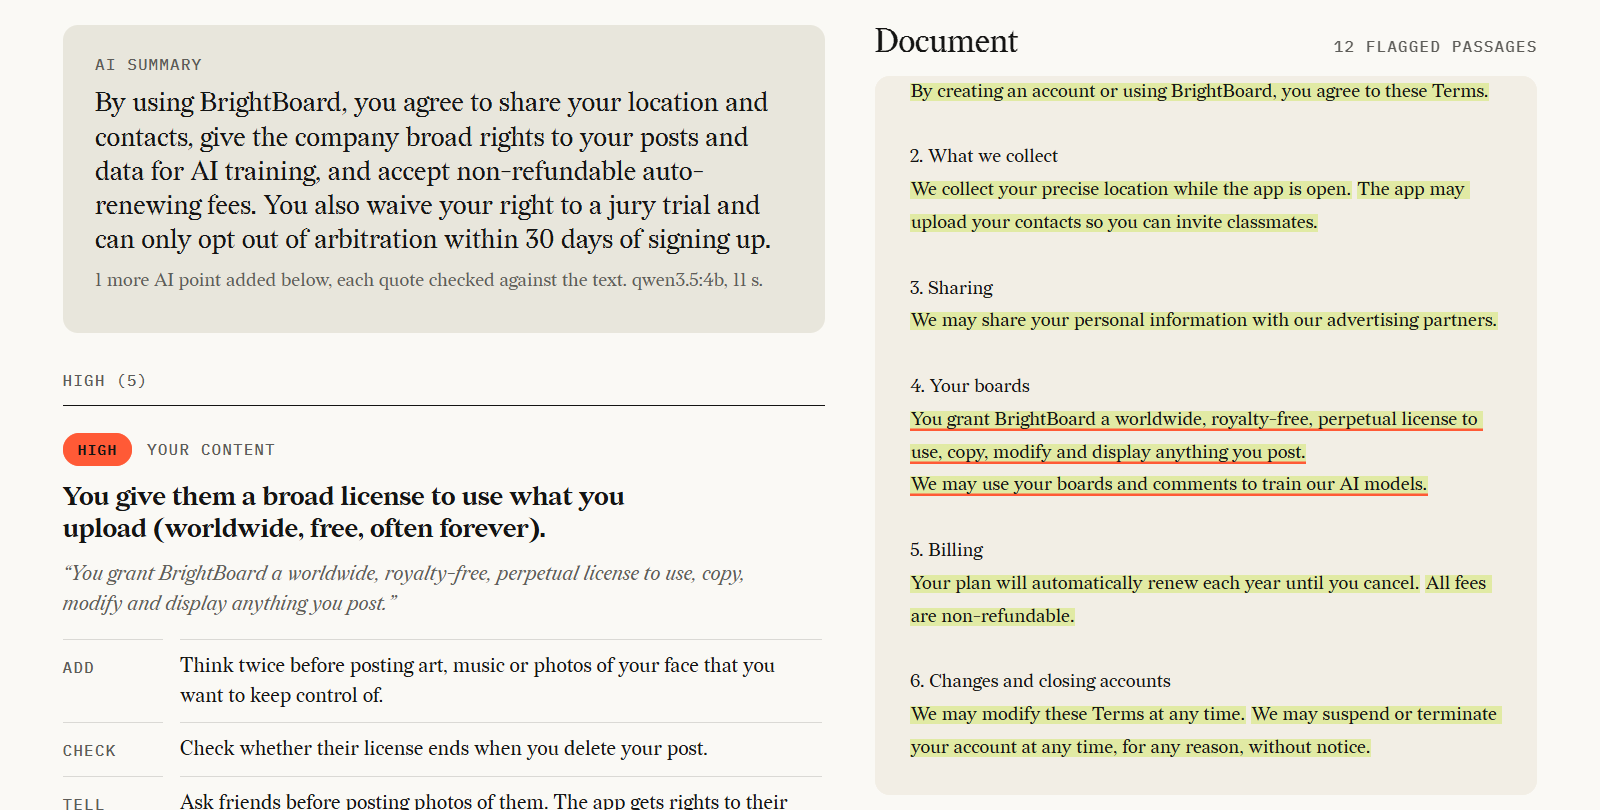
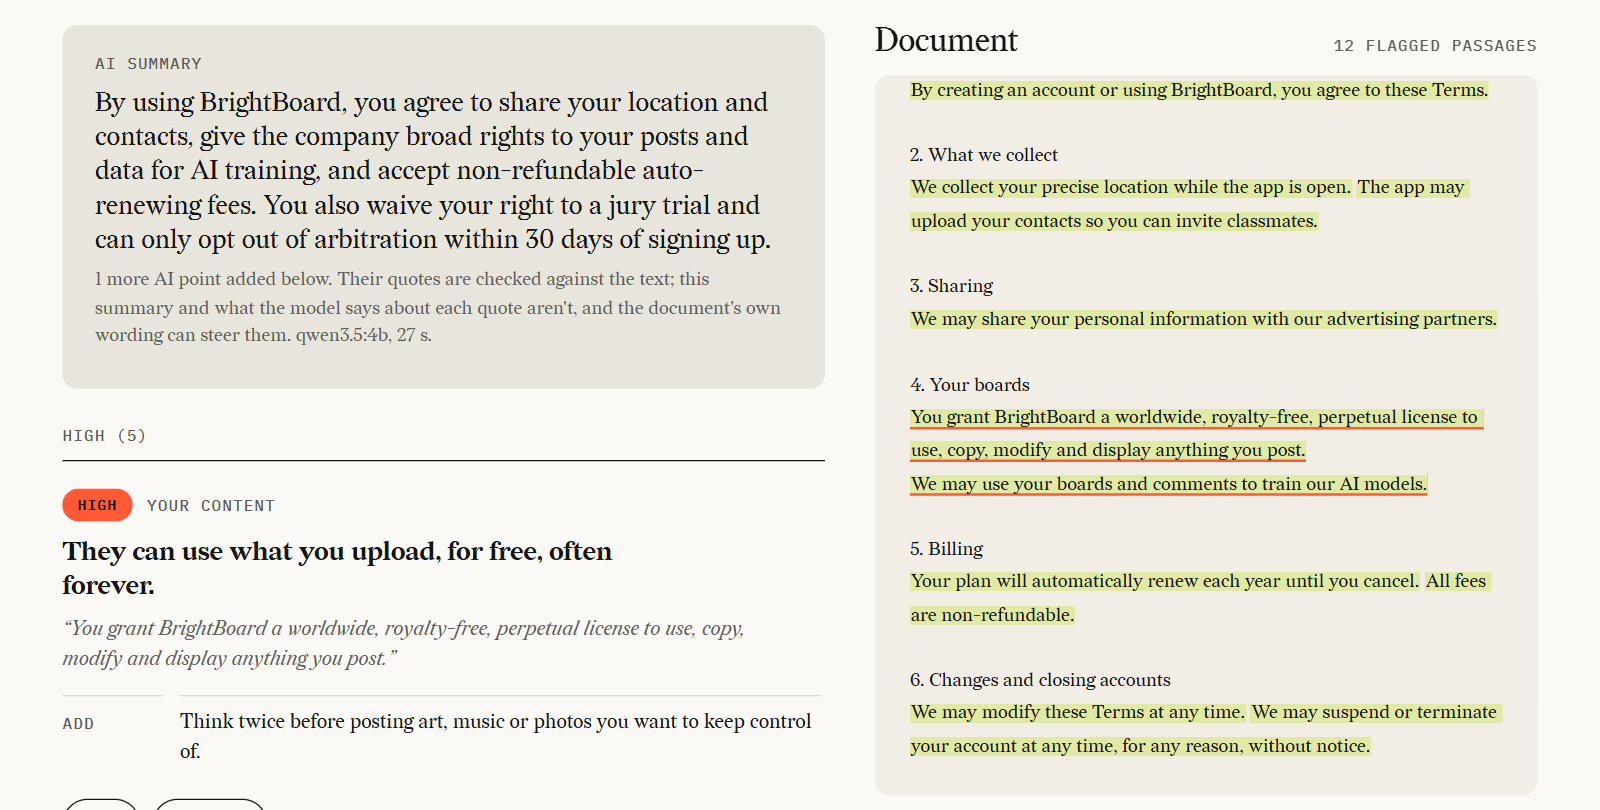
Shorter summaries and quotes, OK / Not OK buttons that match
Approve sat next to Not OK; the pair is now OK / Not OK, and an OK card dims in
the web app as it already did in the popup. Summaries are cut to one short line
and long quotes are clipped (full sentence on hover).

diff --git a/src/rules.ts b/src/rules.ts
@@ -45,7 +45,7 @@ export const RULES: Rule[] = [
     id: "collects_contacts",
     category: "data-collection",
     severity: "medium",
-    say: "They collect your contacts (your address book).",
+    say: "They collect your contacts.",
     match: [/\b(collect|access|upload|import|sync)\w*\b[^.]{0,60}\b(contacts|address book|contact list|phone ?book)\b/i,
       /\b(contacts|address book|contact list)\b[^.]{0,20}\b(uploaded|synced|imported|collected|accessed)\b/i],
     unless: [denies("collect|access|upload|import|sync"), FOR_YOU, DONT_LIST_ITEM],
@@ -54,7 +54,7 @@ export const RULES: Rule[] = [
     id: "collects_biometrics",
     category: "data-collection",
     severity: "high",
-    say: "They collect biometric data, such as your face or voice.",
+    say: "They collect biometric data, like your face or voice.",
     // A biometric word and something done with it. A bare mention ("never upload biometric data") isn't enough.
     match: [all(BIOMETRIC, String.raw`\b(?:(?:collect|process|captur|receiv|obtain|access|extract|analy[sz]|generat|deriv|retain|disclos)\w*|use[sd]?|using|stor(?:e|es|ed|ing)|keeps?|kept|shar(?:e|es|ed|ing)|sells?|sold)\b`)],
     unless: [denies("collect|use|store|process|capture|receive|extract|mine"), FOR_YOU, DONT_LIST_ITEM,
@@ -65,7 +65,7 @@ export const RULES: Rule[] = [
     id: "tracks_across_sites",
     category: "data-collection",
     severity: "medium",
-    say: "They track what you do on other websites or apps, usually for ads.",
+    say: "They track you on other sites and apps.",
     match: [
       // Not "across your devices": that's their own app on your phone and laptop, not other sites.
       /\b(track|collect|monitor|follow)\w*\b[^.]{0,80}\b(across|on other)\b[^.]{0,40}\b(websites|sites|apps|applications|services)\b/i,
@@ -107,7 +107,7 @@ export const RULES: Rule[] = [
     id: "shares_data",
     category: "data-sharing",
     severity: "medium",
-    say: "They share your data with other companies (partners, advertisers or 'third parties').",
+    say: "They share your data with other companies.",
     // Needs all three in one clause: a sharing verb, an outside company, and data.
     match: [
       /^(?=.*\b(share[sd]?|sharing|disclose[sd]?|disclosing|transfer(s|red)?)\b)(?=.*\b(third[- ]part(y|ies)|advertisers|partners|affiliates|data brokers|new owners?|successors?)\b)(?=.*\b(data|information)\b)/is,
@@ -124,7 +124,7 @@ export const RULES: Rule[] = [
     id: "broad_content_license",
     category: "your-content",
     severity: "high",
-    say: "You give them a broad license to use what you upload (worldwide, free, often forever).",
+    say: "They can use what you upload, for free, often forever.",
     // "you (hereby) grant ..." + a broad-license word + "license". Ignores the license *they* give *you*.
     match: [
       /^(?=.*\byou(\s+(?!we\b)\w+){0,3}\s+(grant\w*|give)\b)(?=.*\b(perpetual|irrevocable|worldwide|world-wide|royalty[- ]free|sublicensable)\b)(?=.*\b(licen[cs]e|right)s?\b)/is,
@@ -188,7 +188,7 @@ export const RULES: Rule[] = [
     category: "your-rights",
     severity: "high",
     unfairTos: "Arbitration",
-    say: "Disputes go to private arbitration instead of a normal court.",
+    say: "Disputes go to private arbitration, not court.",
     // Flags the sentence that sends disputes to arbitration, not every sentence of the arbitration section
     // (who picks the arbitrator, the fees, the location...). One clear flag is more useful than thirty.
     match: [
@@ -218,7 +218,7 @@ export const RULES: Rule[] = [
     id: "class_action_waiver",
     category: "your-rights",
     severity: "high",
-    say: "You give up the right to a jury trial or to join a class action (group lawsuit).",
+    say: "You give up jury trials and group lawsuits.",
     match: [
       /(?<!-)\b(class|collective|representative)[- ](action|arbitration|proceeding|lawsuit|claim)s?\b/i,
       /\bclass[- ]wide\b/i,
@@ -230,7 +230,7 @@ export const RULES: Rule[] = [
     category: "your-rights",
     severity: "medium",
     unfairTos: "Unilateral change",
-    say: "They can change these terms (or prices) whenever they want.",
+    say: "They can change the terms or prices anytime.",
     match: [
       all(THEY_MAY, near("chang|modif|amend|updat|revis|increas|rais|add(?:s|ed)?\\b|alter|improve|enhance",
         "terms|agreement|agreements|polic(?:y|ies)|prices?|pricing|fees?|charges|rates|services?|platform|features?|functionality|warnings|products?|rules|eula|subscriptions?|virtual (?:goods|items|money|currency)|payment methods|practices|trial", 60)),
@@ -255,7 +255,7 @@ export const RULES: Rule[] = [
     category: "your-rights",
     severity: "medium",
     unfairTos: "Unilateral termination",
-    say: "They can suspend or close your account at any time, maybe without a reason.",
+    say: "They can close your account at any time.",
     match: [
       all(THEY_MAY, near("suspend|terminat|disabl|deactivat|clos|cancel(?!lation)|ban(?!ner)|revok|restrict(?= (?:your )?(?:access|use))|deny|limit(?= (?:your )?(?:access|use))|discontinu|stop offering",
         "accounts?|access|agreement|licen[cs]e|subscriptions?|membership|privileges|right to use|use of|ability to (?:access|use)|service|services|relationship")),
@@ -284,7 +284,7 @@ export const RULES: Rule[] = [
     category: "your-rights",
     severity: "medium",
     unfairTos: "Contract by using",
-    say: "Just using the service counts as agreeing to these terms.",
+    say: "Just using it counts as agreeing.",
     match: [
       /\bby (\w+ing\s+(\w+\s+){0,2}or\s+)?(accessing|using|visiting|browsing|downloading|installing|continuing to use)\b[^.]{0,80}\b(agree|accept|consent)\w*\s+(to\s+)?(comply|be bound|these|this|the|our)\b/i,
       /\b(continue|keep) (to use|using)\b[^.]{0,60}\b(agree|accept|consent)/i,
@@ -310,7 +310,7 @@ export const RULES: Rule[] = [
     category: "your-rights",
     severity: "medium",
     unfairTos: "Limitation of liability",
-    say: "They limit what they owe you if something goes wrong.",
+    say: "They limit what they owe you if things go wrong.",
     match: [
       /\b(not|never)\s+(be\s+)?(held\s+)?(responsible\s+(or|and|nor)\s+)?liable\b/i,
       // "Not responsible" alone is often just "third-party sites aren't ours". Count it when a loss is named.
@@ -360,7 +360,7 @@ export const RULES: Rule[] = [
     category: "your-rights",
     severity: "low",
     unfairTos: "Choice of law",
-    say: "Another country's or state's law applies, which may not be yours.",
+    say: "Another place's law applies, maybe not yours.",
     match: [
       // Not "governing law" or "under the laws of" alone: those are mostly headings and "a company incorporated under the laws of...".
       /\bgoverned\b[^.]{0,40}\blaws?\b/i,
@@ -382,7 +382,7 @@ export const RULES: Rule[] = [
     category: "your-rights",
     severity: "low",
     unfairTos: "Jurisdiction",
-    say: "Any lawsuit has to happen in courts they picked, possibly far from you.",
+    say: "Lawsuits go to courts they chose, maybe far away.",
     match: [
       /\b(exclusive|sole)\s+(jurisdiction|venue)\b/i,
       /\bjurisdiction of the\b[^.]{0,20}\bcourts?\b/i,
@@ -433,7 +433,7 @@ export const RULES: Rule[] = [
     id: "arbitration_opt_out",
     category: "action",
     severity: "info",
-    say: "You can opt out of arbitration. Check the deadline and how to do it.",
+    say: "You can opt out of arbitration, before a deadline.",
     match: [
       /\bopt[- ]out\b[^.]{0,60}\barbitration\b/i,
       /\barbitration\b[^.]{0,80}\bopt[- ]out\b/i,

diff --git a/app/main.ts b/app/main.ts
@@ -227,10 +227,13 @@ function renderCards(): void {
   }
 }
 
+const QUOTE_MAX = 160;
+
 function renderCard(item: Item): HTMLElement {
   const choice = item.ruleId ? prefs[item.ruleId] : undefined;
   let cls = `card sev-${item.severity}`;
   if (choice === "notok") cls += " is-dealbreaker";
+  if (choice === "ok") cls += " is-ok";
   if (item.ai) cls += " is-ai";
   const card = h("article", cls);
   card.id = `card-${item.key}`;
@@ -241,7 +244,10 @@ function renderCard(item: Item): HTMLElement {
   tags.append(h("span", "pill-sev", SEVERITY_LABEL[item.severity]), h("span", "chip", CATEGORY_LABEL[item.category] ?? item.category));
   if (choice === "notok") tags.append(h("span", "badge badge-deal", "Dealbreaker"));
   if (item.ai) tags.append(h("span", "badge badge-ai", "AI · quote checked"));
-  card.append(tags, h("p", "say", item.say), h("blockquote", "quote", item.quote));
+  // Long quotes are cut to keep cards short; the full sentence is in the document panel and on hover.
+  const quote = h("blockquote", "quote", item.quote.length > QUOTE_MAX ? `${item.quote.slice(0, QUOTE_MAX).trimEnd()}…` : item.quote);
+  if (item.quote.length > QUOTE_MAX) quote.title = item.quote;
+  card.append(tags, h("p", "say", item.say), quote);
 
   // Next move: a safeguard to add, on the first card of its kind only.
   if (advisedKeys.has(item.key)) {
@@ -253,7 +259,7 @@ function renderCard(item: Item): HTMLElement {
   const ruleId = item.ruleId;
   if (ruleId) {
     const actions = h("div", "actions");
-    const options: [Choice, string][] = [["ok", "Approve"], ["notok", "Not OK"]];
+    const options: [Choice, string][] = [["ok", "OK"], ["notok", "Not OK"]];
     for (const [value, label] of options) {
       const btn = button(label, `choice choice-${value}`, () => setPref(ruleId, value, item.key));
       btn.setAttribute("aria-pressed", String(choice === value));

diff --git a/scripts/test-extension.ts b/scripts/test-extension.ts
@@ -517,7 +517,7 @@ async function run(port: number, signupUrl: string, setPrivacy: (version: number
   const adds = r.cards.filter((c: any) => c.advice).map((c: any) => c.addText);
   check("a flag has at most one Add", r.cards.every((c: any) => c.advice === "" || c.advice === "Add"));
   check("each Add shows once, on the first card of its kind", adds.length > 0 && new Set(adds).size === adds.length, `${adds.length} Adds on ${r.cards.length} cards`);
-  check("every flag has Approve / Not OK", r.cards.every((c: any) => c.buttons === "Approve/Not OK"));
+  check("every flag has OK / Not OK", r.cards.every((c: any) => c.buttons === "OK/Not OK"));
   check("cross-origin Cookie Policy is listed as unread", r.failed.join() === "Cookie Policy", r.failed.join());
   check("'Allow reading 1 more page' button is shown", r.allow.includes("Allow reading 1 more page"), r.allow.join());
   check("non-legal links are not fetched", !served.some((s) => s.path === "/help" || s.path === "/features"));

diff --git a/extension/popup.ts b/extension/popup.ts
@@ -58,7 +58,7 @@ const CATEGORY_LABEL: Record<Category, string> = {
   money: "Money",
   action: "You can act",
 };
-const QUOTE_MAX = 200;
+const QUOTE_MAX = 140;
 const SELECTION_MIN = 200;
 /** Characters checked per document. Long terms run to about 300,000; this keeps a huge page from stalling the popup. */
 const MAX_TEXT = 500_000;
@@ -474,7 +474,7 @@ function card(hit: Hit, advice: string | null): HTMLElement {
   const actions = el(
     "div",
     { className: "actions" },
-    toggle("Approve", "choice-ok", pref === "ok", () => setPref(flag.ruleId, "ok")),
+    toggle("OK", "choice-ok", pref === "ok", () => setPref(flag.ruleId, "ok")),
     toggle("Not OK", "choice-notok", pref === "notok", () => setPref(flag.ruleId, "notok")),
   );
   const show = showButton(flag, doc);

diff --git a/app/styles.css b/app/styles.css
@@ -125,6 +125,7 @@ button.primary:hover { background: var(--ink-2); color: var(--bg); }
 .moves dt, .moves dd { padding: 9px 0; border-top: 1px solid var(--rule); margin: 0; }
 .moves dt { color: var(--muted); padding-top: 12px; }
 .actions { display: flex; flex-wrap: wrap; gap: 10px; margin-top: 16px; }
+.card.is-ok { opacity: .55; }
 .choice { min-height: 40px; font-size: 15px; padding: 0 18px; }
 .choice-ok[aria-pressed="true"] { background: var(--fg); color: var(--bg); }
 .choice-notok[aria-pressed="true"] { background: var(--coral); border-color: var(--coral); color: #141413; }

diff --git a/docs/extension.md b/docs/extension.md
@@ -58,7 +58,7 @@ After changing the code, run `npm run build` again and click **Reload** on the e
   - In Edge and Chrome the popup closes when the browser's prompt opens: accept it, then click the icon again. In Firefox the popup stays open and reads the page as soon as you accept.
   - For a plain-http link it asks for that site over http and https, because Firefox sends the extension's request over https (`upgrade-insecure-requests` in its default extension policy). So in Firefox, a terms page on another site that only works over plain http can't be read this way.
 - **Very long pages**: each document is checked up to its first 500,000 characters (long terms run to about 300,000), and the list says when one was cut.
-- **One report**: the boundary score band (its colour is the verdict), "Checked N documents" with a flag count for each, then one card per flag with severity, category, the plain-English point, the quote, **From: <document>**, the safeguard to **Add** (on the first card of each kind), and **Approve / Not OK**.
+- **One report**: the boundary score band (its colour is the verdict), "Checked N documents" with a flag count for each, then one card per flag with severity, category, the plain-English point, the quote, **From: <document>**, the safeguard to **Add** (on the first card of each kind), and **OK / Not OK**.
 - **Show on page**: on a flag from the page you're on, scrolls the page to that sentence and highlights it in lime (the CSS Custom Highlight API; the browser selects the sentence instead if it doesn't have that API). The highlight stays until the page reloads. If the page changed since the check, the button says "Not found on page".
 - **Open and show**: on a flag from a linked page, opens that page in a new tab at the sentence, using a text fragment (`#:~:text=…`). If the browser can't find the text (some pages build their text with JavaScript), the page opens at the top.
 - **Badge**: after a check, the toolbar icon shows the number of high-risk flags in coral, for that tab only. The browser clears it when the tab goes to another page.
@@ -107,7 +107,7 @@ Firefox 159 sometimes never finishes starting with a new profile (WebDriver BiDi
 Verified in the real browser:
 - The extension loads unpacked with its icons, and the toolbar click opens the popup with no console errors.
 - It reads the current page and the same-origin Privacy Policy. It skips links that aren't legal pages (Help, Features).
-- One merged report: the score band, "Checked N documents", and flags from every document, each with "From: <document>", one Add per kind of flag, Approve / Not OK, and Show on page (this page) or Open and show (linked pages).
+- One merged report: the score band, "Checked N documents", and flags from every document, each with "From: <document>", one Add per kind of flag, OK / Not OK, and Show on page (this page) or Open and show (linked pages).
 - The toolbar badge shows the high-risk count (4), with a tooltip that says so.
 - Cross-origin: the Cookie Policy on another origin is listed as unread with **Allow reading 1 more page**. Once the origin is granted, a real (trusted) click on Allow reads it, and the report goes to 3 documents. The next click on the icon reads it without asking.
 - Not OK makes a dealbreaker, lowers the score (22 to 17), is saved to `chrome.storage.local`, and survives reopening. Clicking it again clears it.

diff --git a/STATUS.md b/STATUS.md
@@ -16,7 +16,7 @@
 ### Web app (`app/`)
 - [x] Paste the terms, open a file, or try a sample, then press Check (or Ctrl+Enter).
 - [x] Tickwise look: ivory paper, Redaction serif, uppercase mono labels, a dark score band with a verdict pill and a High / Med / Low tally, coral severity pills. Fonts are bundled, so nothing loads from the internet.
-- [x] Each flag shows what it means, the exact quote, a safeguard to add (once per kind of flag), and Approve / Not OK buttons. Your choices are saved and the score updates.
+- [x] Each flag shows what it means, the exact quote, a safeguard to add (once per kind of flag), and OK / Not OK buttons. Your choices are saved and the score updates.
 - [x] Click a flag to jump to the highlighted sentence in the document.
 - [x] Tested in the browser with the sample: renders, no console errors.
 
